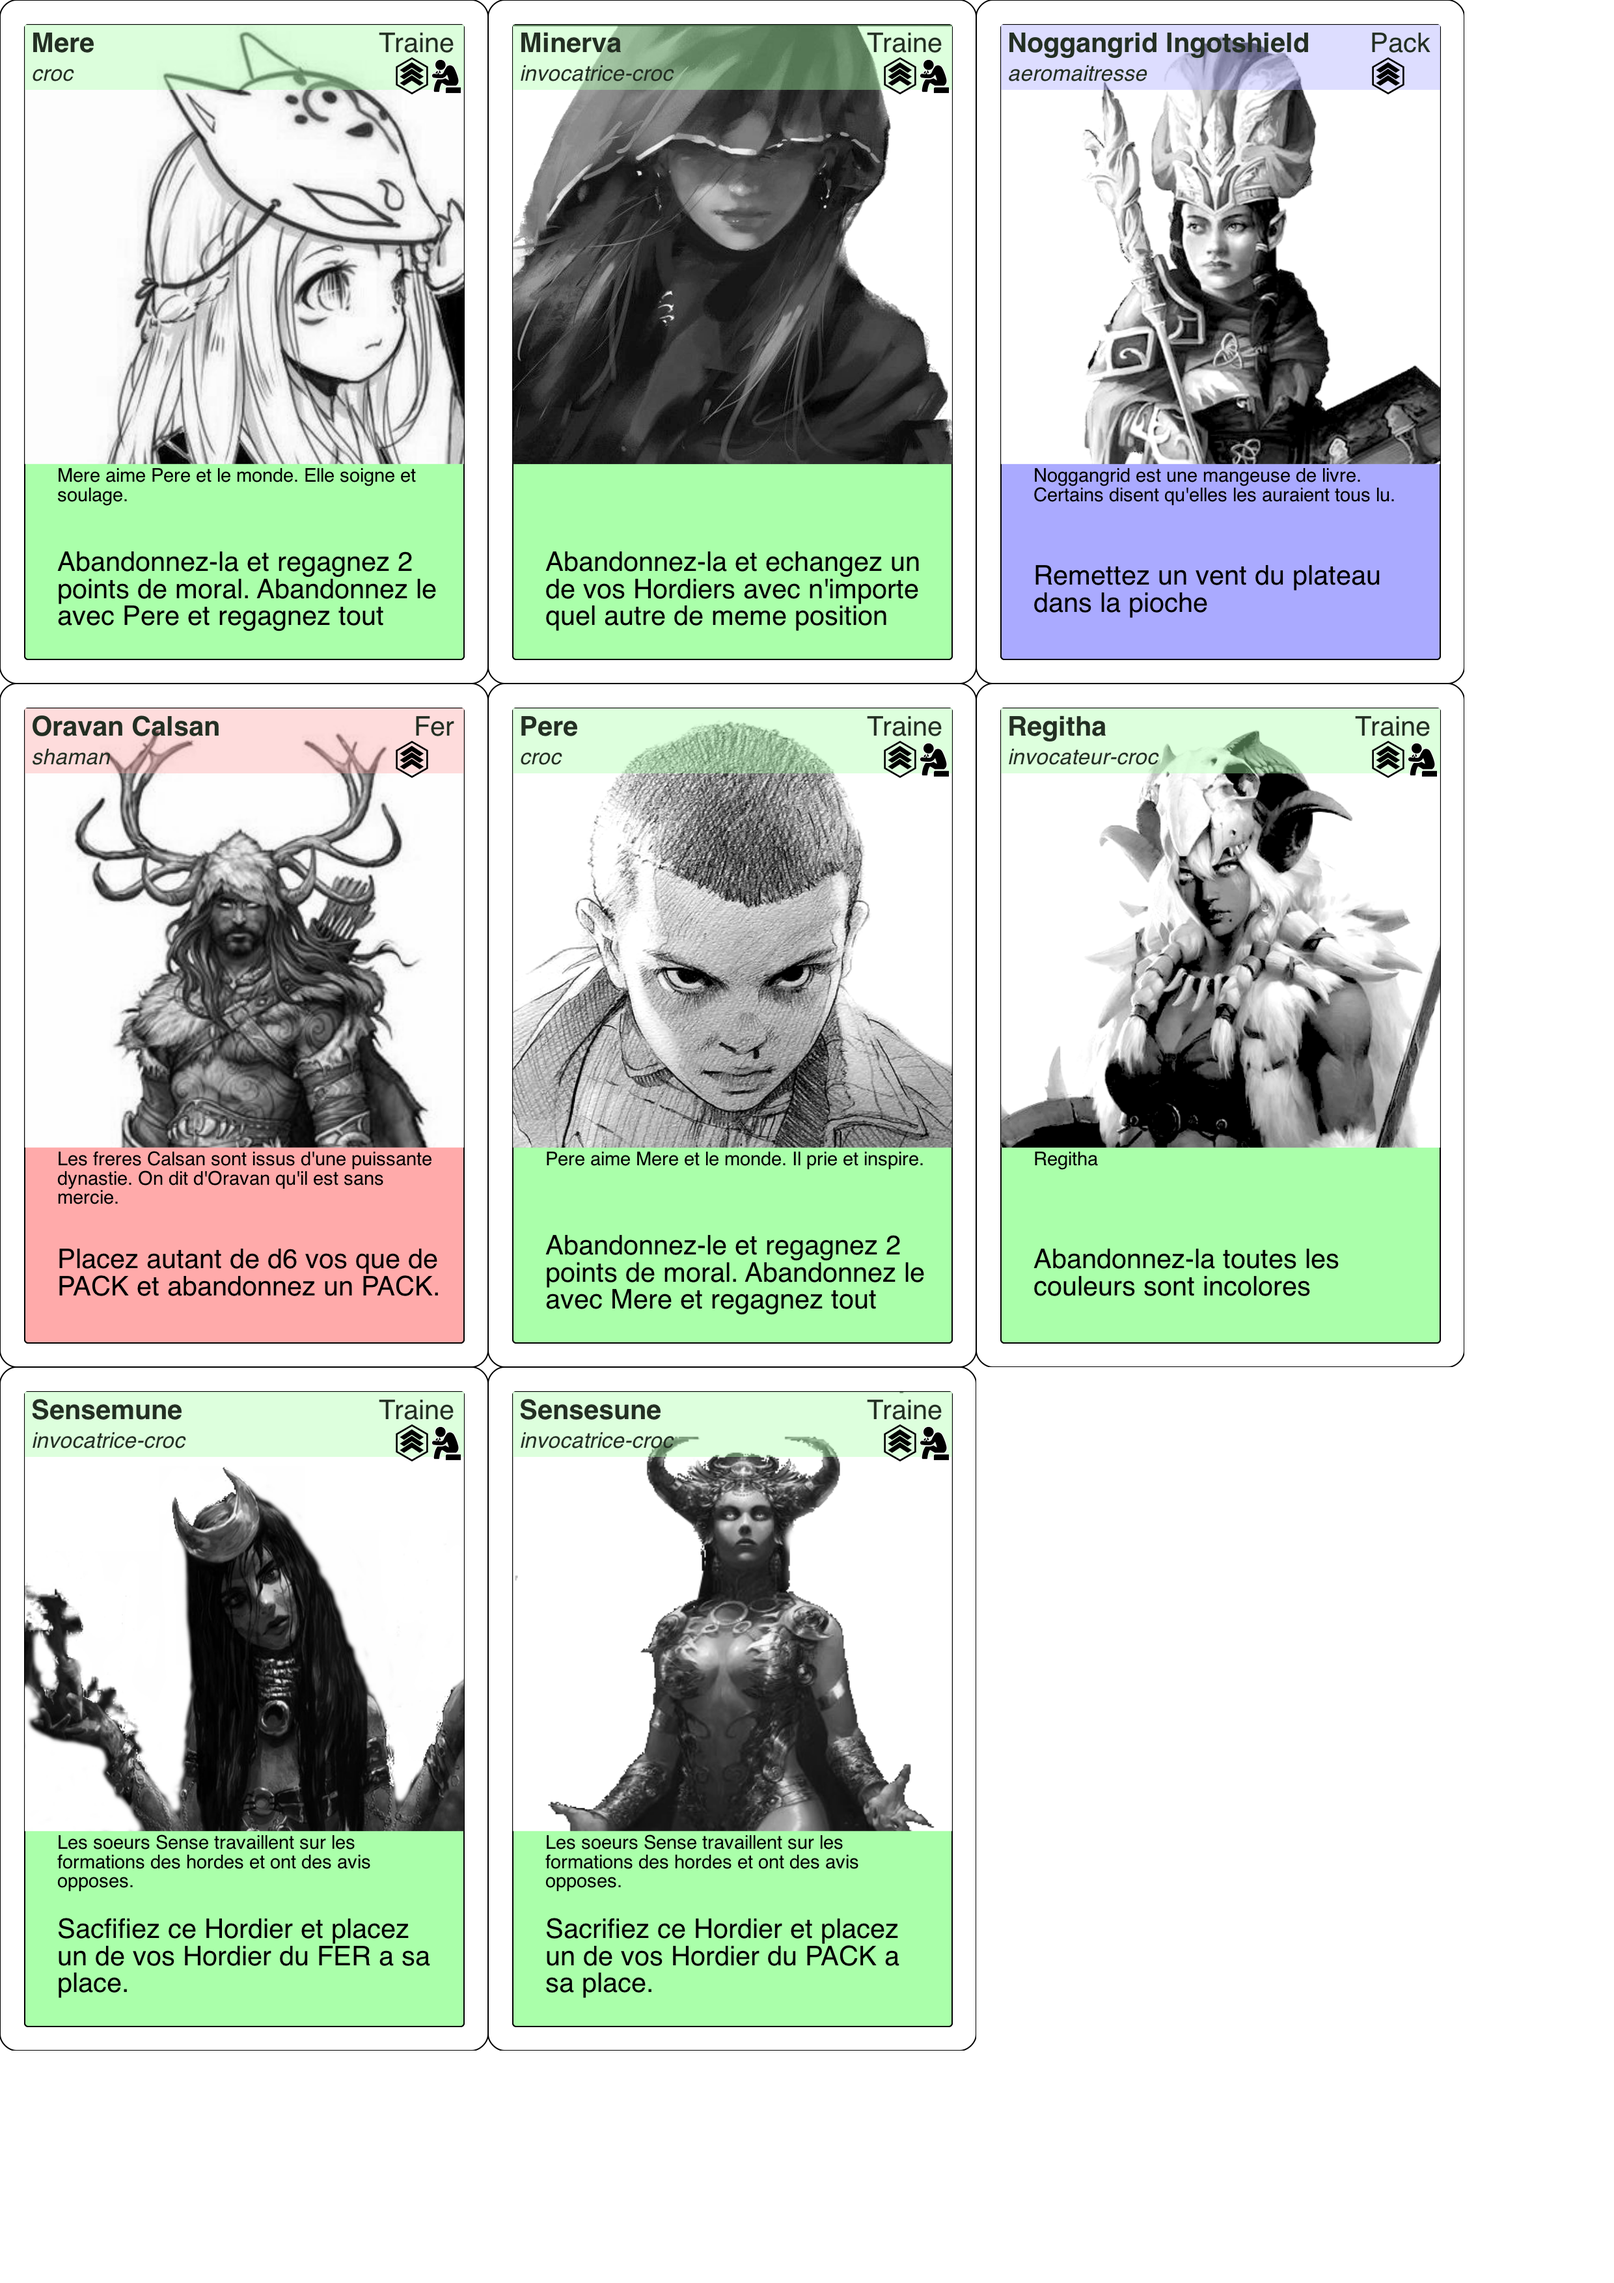
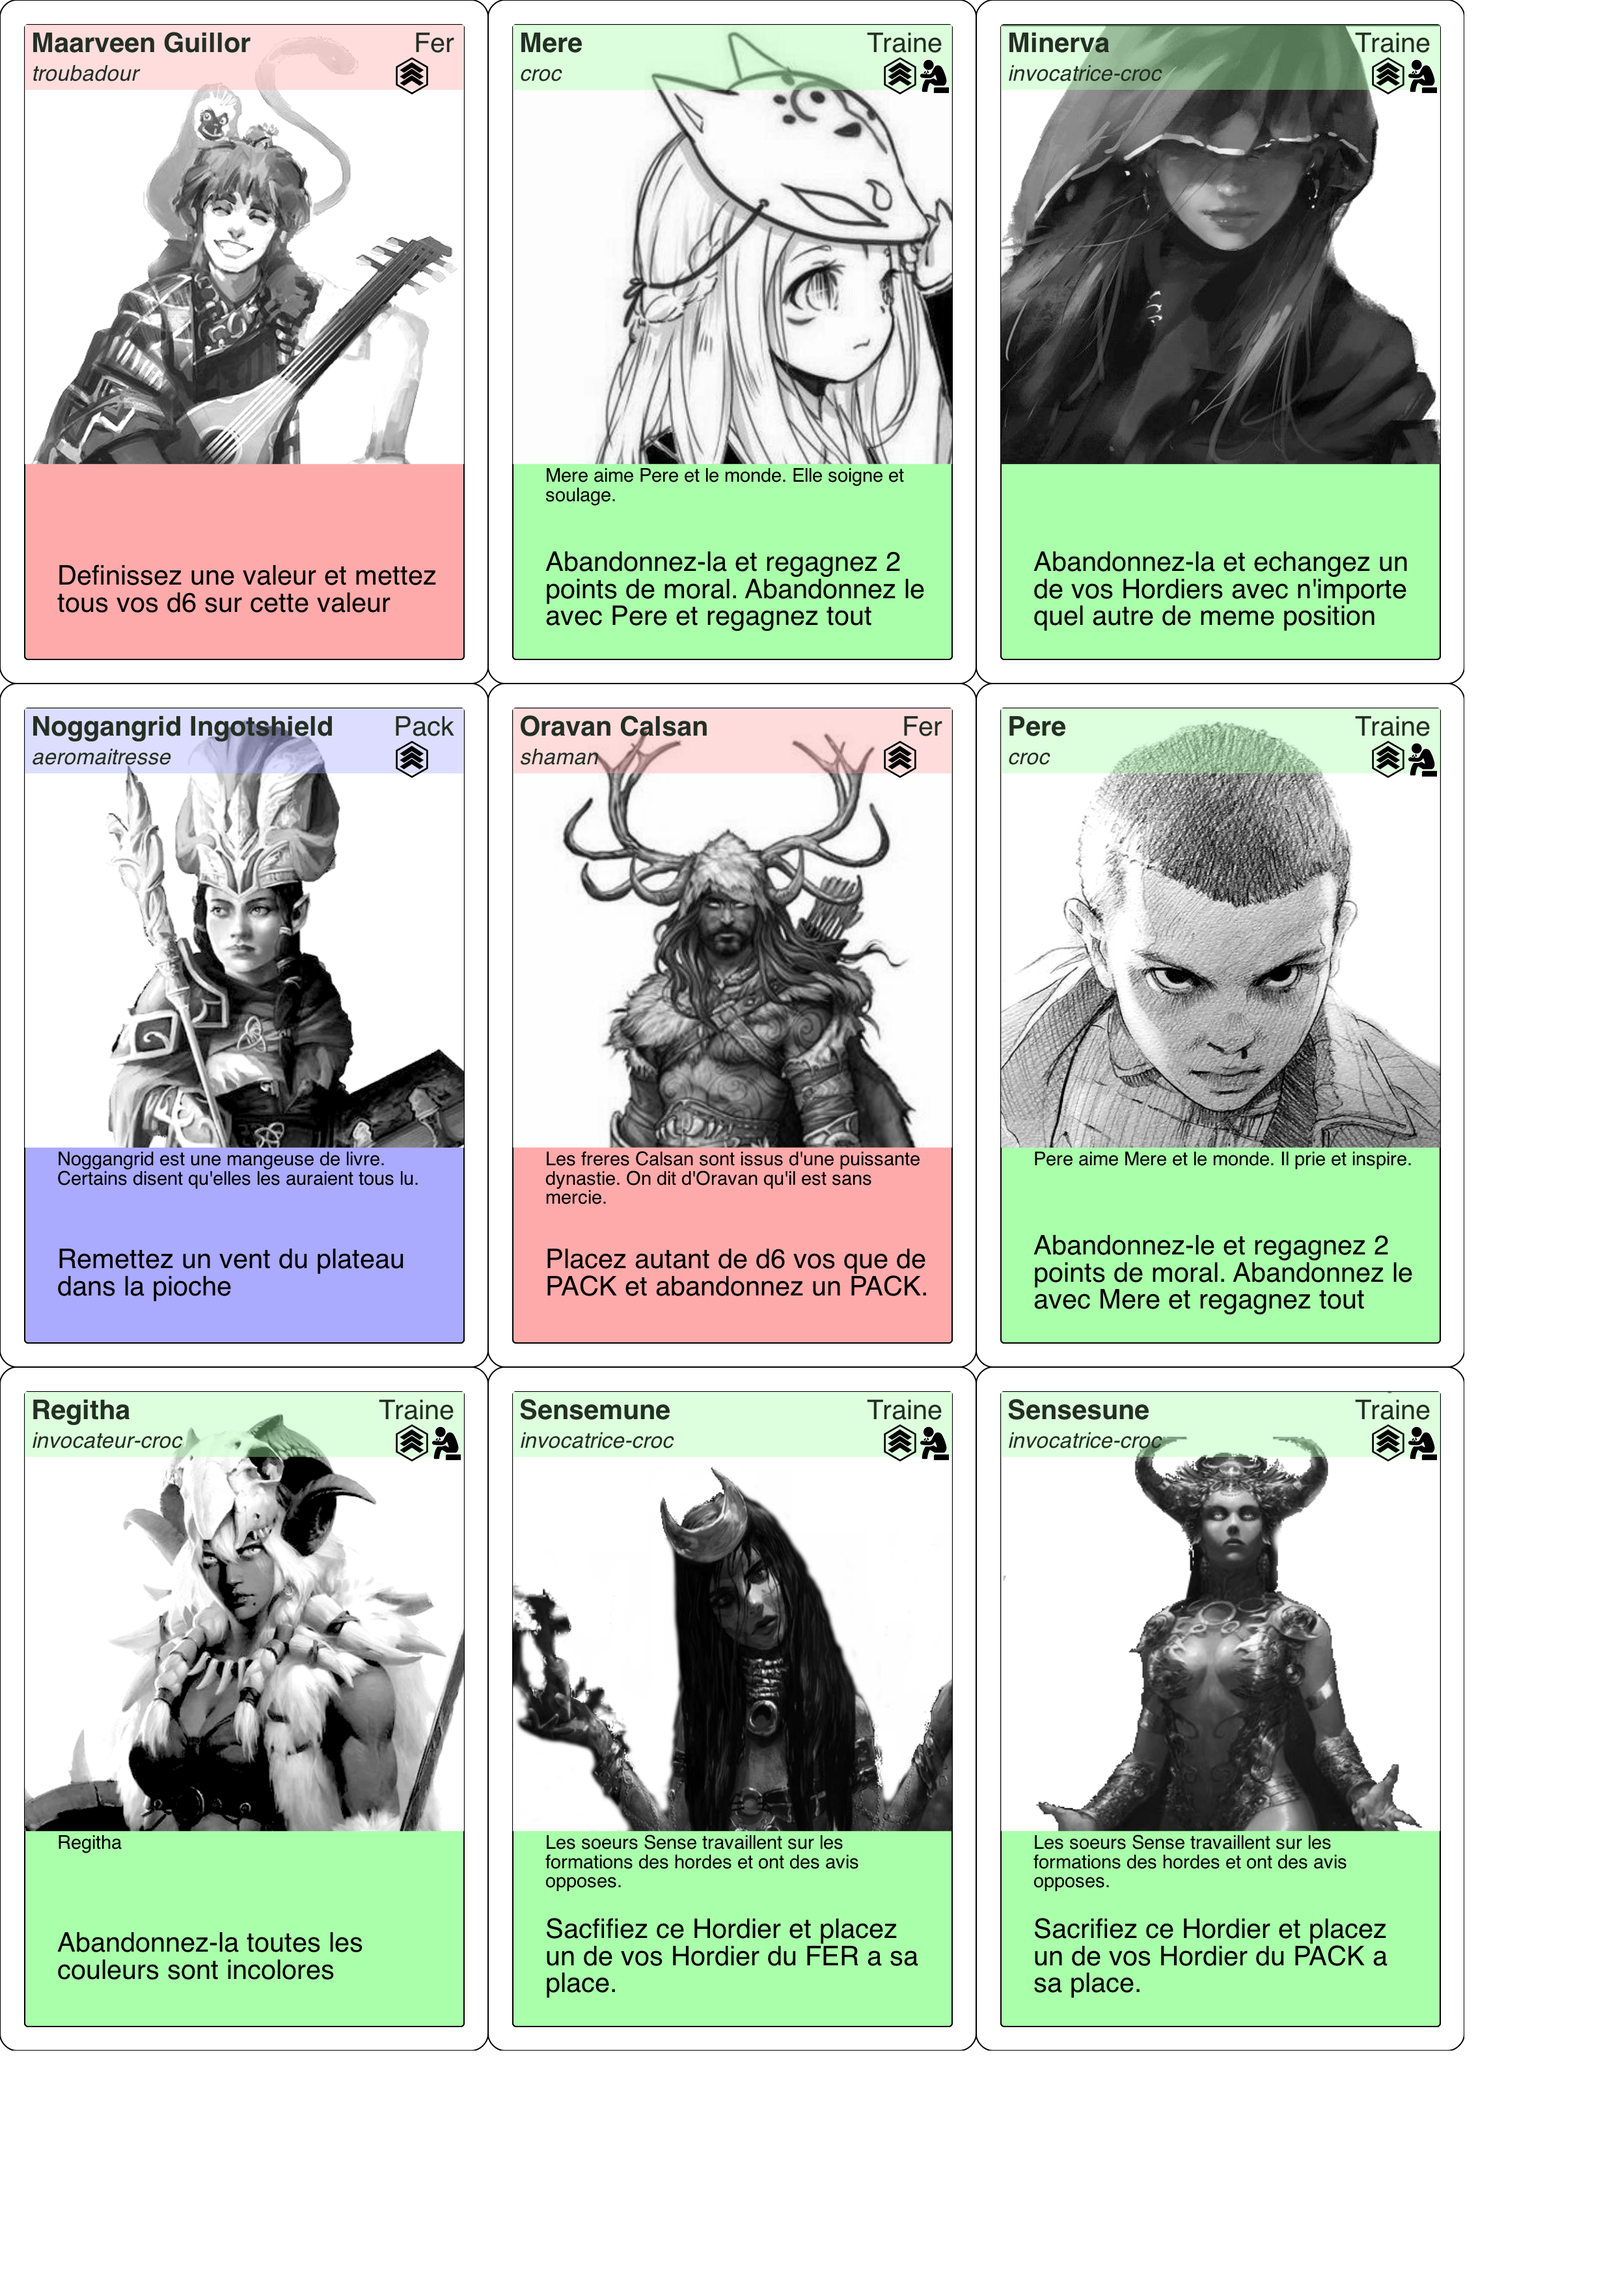
Nouvelles cartes consommables

diff --git a/src/main/ruby/horde_cards.rb b/src/main/ruby/horde_cards.rb
@@ -2,7 +2,7 @@ require 'squib'
 
 deck1 = Squib.csv file: %w(src/resources/horde_cards.csv)
 deck2 = Squib.csv file: %w(src/resources/horde2_cards.csv)
-#deck = Squib.csv file: %w(src/resources/data.csv)
+deck_Vs = Squib.csv file: %w(src/resources/horde_vs_cards.csv)
 
 def drawCards(deck,dirname)
 #  rect layout: :bleed
@@ -61,4 +61,10 @@ Squib::Deck.new(cards: deck2["Nom"].size,#cards: deck["Name"].size, # cards: 1,#
                 layout: %w(src/resources/Vlayout.yml src/resources/Vcards.yml),
                 width: '2.5in', height: '3.5in') do
   drawCards(deck2,'_cards2')
+end
+
+Squib::Deck.new(cards: deck_Vs["Nom"].size,#cards: deck["Name"].size, # cards: 1,#
+                layout: %w(src/resources/Vlayout.yml src/resources/Vcards.yml),
+                width: '2.5in', height: '3.5in') do
+  drawCards(deck_Vs,'_cards_vs')
 end
